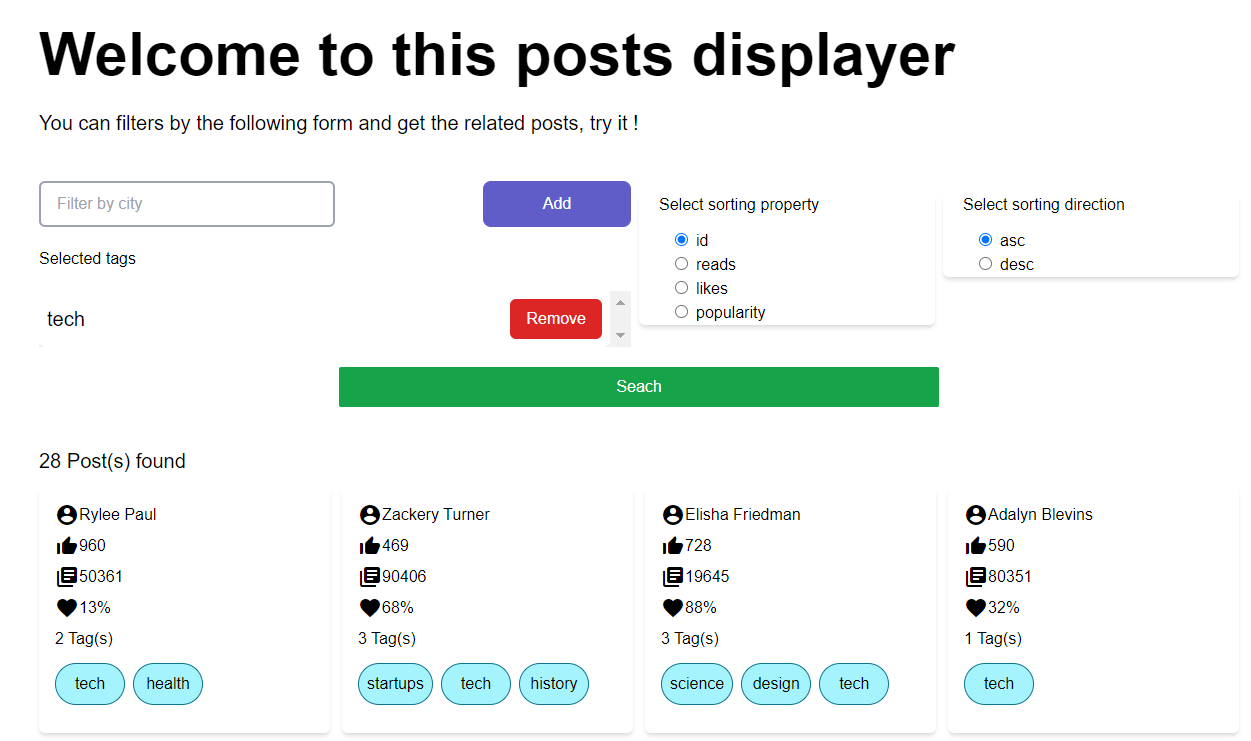
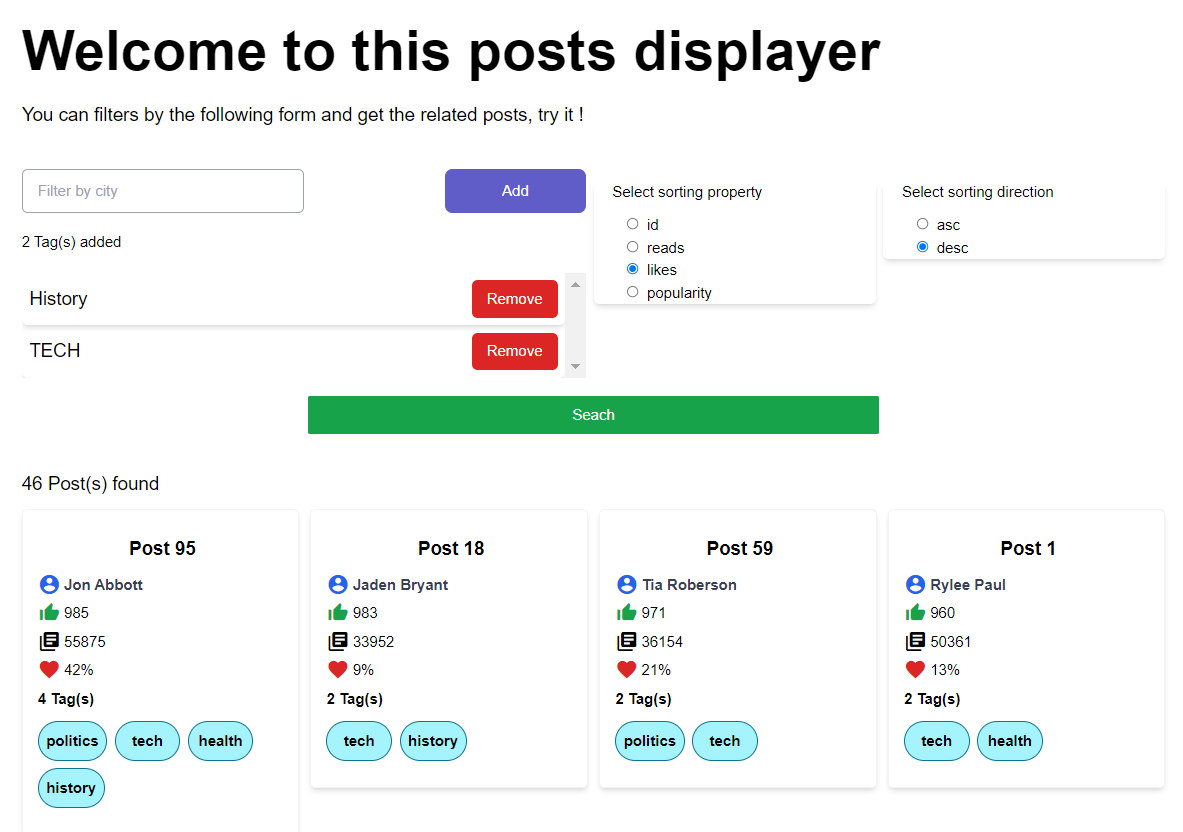
Enhance post display Make tag search case insensitive Update Readme illustration image

diff --git a/client/src/app/app.component.html b/client/src/app/app.component.html
@@ -1,96 +1,98 @@
-<main class="m-20 flex flex-col justify-center items-center max-w-[1200px]">
-  <div class="w-full">
-    <div>
-      <h1 class="text-6xl font-bold welcome">
-        Welcome to this posts displayer
-      </h1>
-      <p class="my-6 text-xl">
-        You can filters by the following form and get the related posts, try it
-        !
-      </p>
-    </div>
-    <div>
-      <div class="flex flex-row gap-2">
-        <div class="col-span-2 my-5 w-full md:w-2/4">
-          <div class="flex flex-row justify-between">
-            <input
-              class="w-2/4 border-gray-400 rounded-md px-4 border-2"
-              #tagSearch
-              type="text"
-              placeholder="Filter by city"
-              (keydown.enter)="addTag(tagSearch.value); tagSearch.value = ''"
-            />
-            <button
-              class="w-1/4 primary border-solid hover:cursor-pointer"
-              type="button"
-              (click)="addTag(tagSearch.value); tagSearch.value = ''"
-            >
-              Add
-            </button>
+<main class="max-w-[1300px] mx-auto my-10">
+  <section class="flex flex-col items-center justify-center p-10">
+    <div class="w-full">
+      <div>
+        <h1 class="text-6xl font-bold welcome">
+          Welcome to this posts displayer
+        </h1>
+        <p class="my-6 text-xl">
+          You can filters by the following form and get the related posts, try
+          it !
+        </p>
+      </div>
+      <div>
+        <div class="flex flex-row gap-2">
+          <div class="w-full col-span-2 my-5 md:w-2/4">
+            <div class="flex flex-row justify-between">
+              <input
+                class="w-2/4 px-4 border-2 border-gray-400 rounded-md"
+                #tagSearch
+                type="text"
+                placeholder="Filter by city"
+                (keydown.enter)="addTag(tagSearch.value); tagSearch.value = ''"
+              />
+              <button
+                class="w-1/4 border-solid primary hover:cursor-pointer"
+                type="button"
+                (click)="addTag(tagSearch.value); tagSearch.value = ''"
+              >
+                Add
+              </button>
+            </div>
+            <div class="my-5">{{ allItems.length }} Tag(s) added</div>
+            <ul class="overflow-y-scroll max-h-60">
+              <li *ngFor="let tag of allItems">
+                <app-item (remove)="remove(tag)" [item]="tag"></app-item>
+              </li>
+            </ul>
           </div>
-          <div class="my-5">Selected tags</div>
-          <ul class="max-h-60 overflow-y-scroll">
-            <li *ngFor="let tag of allItems">
-              <app-item (remove)="remove(tag)" [item]="tag"></app-item>
-            </li>
-          </ul>
-        </div>
-        <div class="my-5 w-full md:w-1/4">
-          <div class="px-5 border-solid border-gray-50 rounded-md shadow-md">
-            <div class="my-3">Select sorting property</div>
-            <div class="flex flex-col mx-4">
-              <div *ngFor="let sortProp of sortProperties">
-                <input
-                  type="radio"
-                  [id]="sortProp"
-                  name="sortGroup"
-                  [value]="sortProp"
-                  (change)="onSortingPropertyChange($event)"
-                  [checked]="sortProp === 'id'"
-                />
-                <label class="mx-2" [for]="sortProp">{{ sortProp }}</label>
+          <div class="w-full my-5 md:w-1/4">
+            <div class="px-5 border-solid rounded-md shadow-md border-gray-50">
+              <div class="my-3">Select sorting property</div>
+              <div class="flex flex-col mx-4">
+                <div *ngFor="let sortProp of sortProperties">
+                  <input
+                    type="radio"
+                    [id]="sortProp"
+                    name="sortGroup"
+                    [value]="sortProp"
+                    (change)="onSortingPropertyChange($event)"
+                    [checked]="sortProp === 'id'"
+                  />
+                  <label class="mx-2" [for]="sortProp">{{ sortProp }}</label>
+                </div>
               </div>
             </div>
           </div>
-        </div>
-        <div class="my-5 w-full md:w-1/4">
-          <div class="px-5 border-solid border-gray-50 rounded-md shadow-md">
-            <div class="my-3">Select sorting direction</div>
-            <div class="flex flex-col mx-4">
-              <div *ngFor="let direction of directionProperties">
-                <input
-                  type="radio"
-                  [id]="direction"
-                  name="directionGroup"
-                  [value]="direction"
-                  (change)="onSortingDirectionChange($event)"
-                  [checked]="direction === 'asc'"
-                />
-                <label class="mx-2" [for]="direction">{{ direction }}</label>
+          <div class="w-full my-5 md:w-1/4">
+            <div class="px-5 border-solid rounded-md shadow-md border-gray-50">
+              <div class="my-3">Select sorting direction</div>
+              <div class="flex flex-col mx-4">
+                <div *ngFor="let direction of directionProperties">
+                  <input
+                    type="radio"
+                    [id]="direction"
+                    name="directionGroup"
+                    [value]="direction"
+                    (change)="onSortingDirectionChange($event)"
+                    [checked]="direction === 'asc'"
+                  />
+                  <label class="mx-2" [for]="direction">{{ direction }}</label>
+                </div>
               </div>
             </div>
           </div>
         </div>
       </div>
+      <div class="flex justify-center">
+        <button
+          class="w-2/4 px-4 py-2 text-white bg-green-600 rounded-sm hover:cursor-pointer"
+          (click)="send()"
+        >
+          Seach
+        </button>
+      </div>
     </div>
-    <div class="flex justify-center">
-      <button
-        class="w-2/4 bg-green-600 px-4 py-2 text-white rounded-sm hover:cursor-pointer"
-        (click)="send()"
-      >
-        Seach
-      </button>
+    <div class="grid w-full grid-flow-row grid-cols-4 gap-3 my-10">
+      <div class="col-span-4 text-xl">{{ posts.length }} Post(s) found</div>
+      <app-post
+        *ngFor="let post of posts"
+        [post]="post"
+        class="col-span-1"
+      ></app-post>
+      <div *ngIf="posts.length <= 0" class="col-span-4">
+        No posts found, please change filters and retry !
+      </div>
     </div>
-  </div>
-  <div class="my-10 grid grid-cols-4 grid-flow-row gap-3 w-full">
-    <div class="col-span-4 text-xl">{{ posts.length }} Post(s) found</div>
-    <app-post
-      *ngFor="let post of posts"
-      [post]="post"
-      class="col-span-1"
-    ></app-post>
-    <div *ngIf="posts.length <= 0" class="col-span-4">
-      No posts found, please change filters and retry !
-    </div>
-  </div>
+  </section>
 </main>

diff --git a/client/src/app/post/post.component.html b/client/src/app/post/post.component.html
@@ -1,26 +1,31 @@
-<div class="rounded-md shadow-md flex flex-col p-4 flex-1">
-  <div class="flex flex-row">
-    <div><mat-icon>account_circle</mat-icon></div>
-    <div>{{ post.author }}</div>
+<div
+  class="flex flex-col flex-1 p-4 border-2 border-gray-100 rounded-md shadow-md"
+>
+  <div class="flex flex-row justify-center">
+    <div class="pl-1 my-3 text-xl font-bold">Post {{ post.id }}</div>
   </div>
   <div class="flex flex-row">
-    <div><mat-icon>thumb_up_alt</mat-icon></div>
-    <div>{{ post.likes }}</div>
+    <div><mat-icon class="text-blue-600">account_circle</mat-icon></div>
+    <div class="pl-1 font-bold text-gray-700 text-md">{{ post.author }}</div>
+  </div>
+  <div class="flex flex-row">
+    <div><mat-icon class="text-green-600">thumb_up_alt</mat-icon></div>
+    <div class="pl-1">{{ post.likes }}</div>
   </div>
   <div class="flex flex-row">
     <div><mat-icon>library_books</mat-icon></div>
-    <div>{{ post.reads }}</div>
+    <div class="pl-1">{{ post.reads }}</div>
   </div>
   <div class="flex flex-row">
-    <div><mat-icon>favorite</mat-icon></div>
-    <div>{{ Math.floor(post.popularity * 100) + "%" }}</div>
+    <div><mat-icon class="text-red-600">favorite</mat-icon></div>
+    <div class="pl-1">{{ Math.floor(post.popularity * 100) + "%" }}</div>
   </div>
   <div class="flex flex-col">
-    <div>{{ post.tags.length }} Tag(s)</div>
-    <div class="flex flex-row gap-2 my-3 flex-wrap">
+    <div class="font-semibold text-md">{{ post.tags.length }} Tag(s)</div>
+    <div class="flex flex-row flex-wrap gap-2 my-3">
       <div *ngFor="let tag of post.tags">
         <div
-          class="p-2 min-w-[70px] col-span-1 rounded-full bg-cyan-200 text-center self-center border-solid border border-cyan-700 text-black"
+          class="p-2 min-w-[70px] font-semibold col-span-1 rounded-full bg-cyan-200 text-center self-center border-solid border border-cyan-700 text-black"
         >
           {{ tag }}
         </div>

diff --git a/server/PostManager.Bussiness/Services/PostService.cs b/server/PostManager.Bussiness/Services/PostService.cs
@@ -40,7 +40,7 @@ namespace PostManager.Bussiness.Services
                 {
                     try
                     {
-                        var postsForTag = (await _dataRepositoryAccess.GetPosts(tag.Trim())).ToList();
+                        var postsForTag = (await _dataRepositoryAccess.GetPosts(tag.Trim().ToLower())).ToList();
                         allPosts.AddRange(postsForTag);
                     }
                     catch (InvalidOperationException ex)
